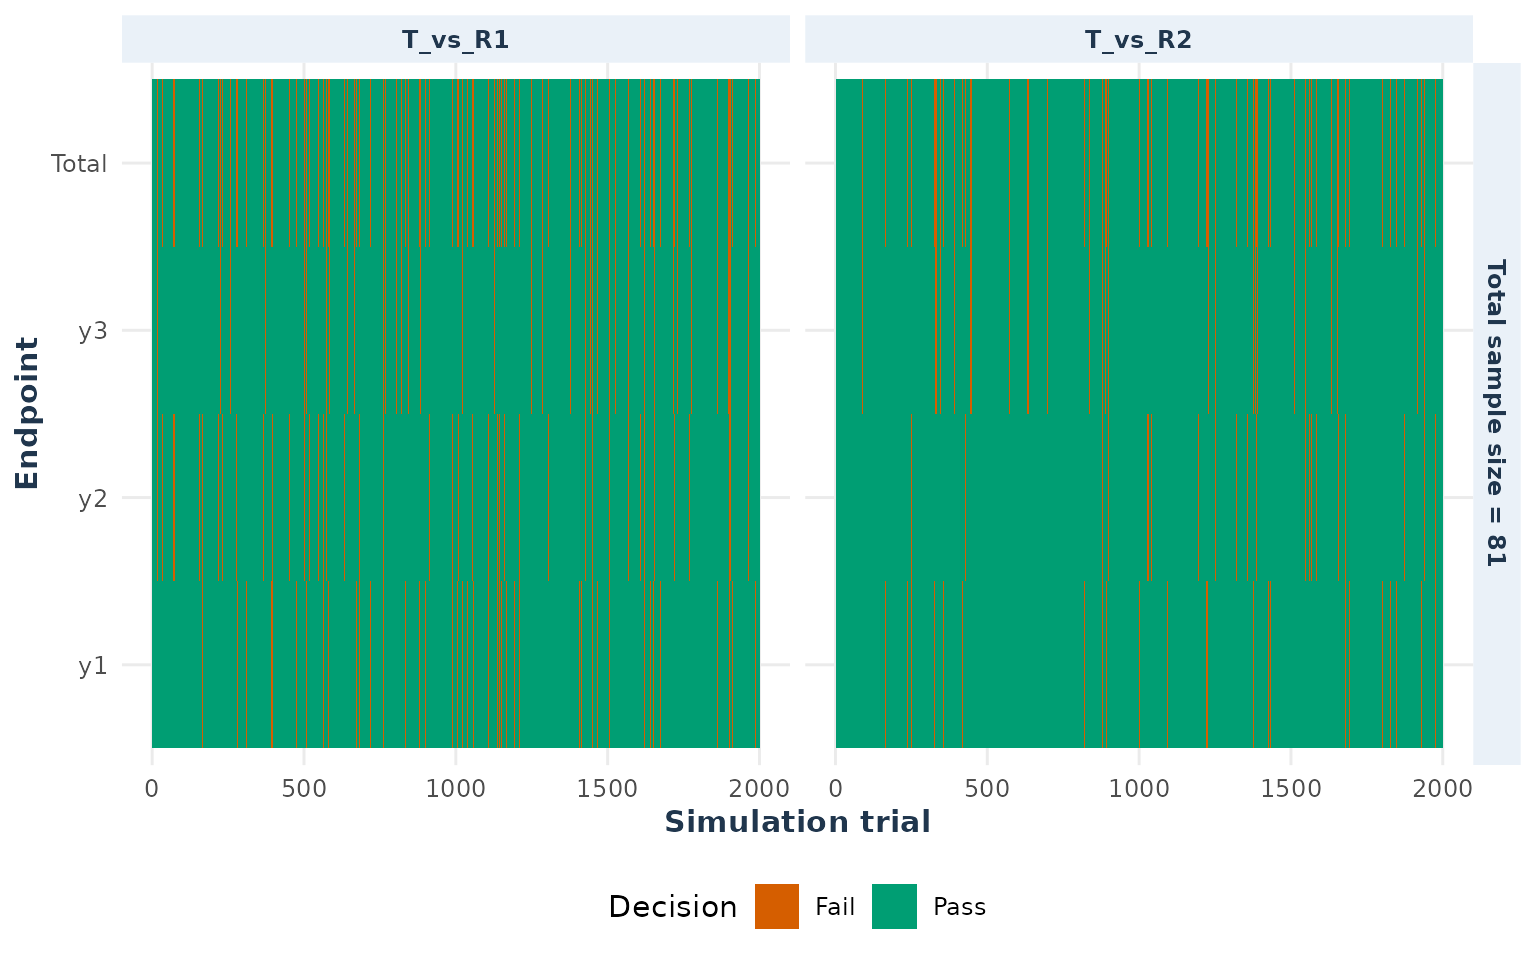
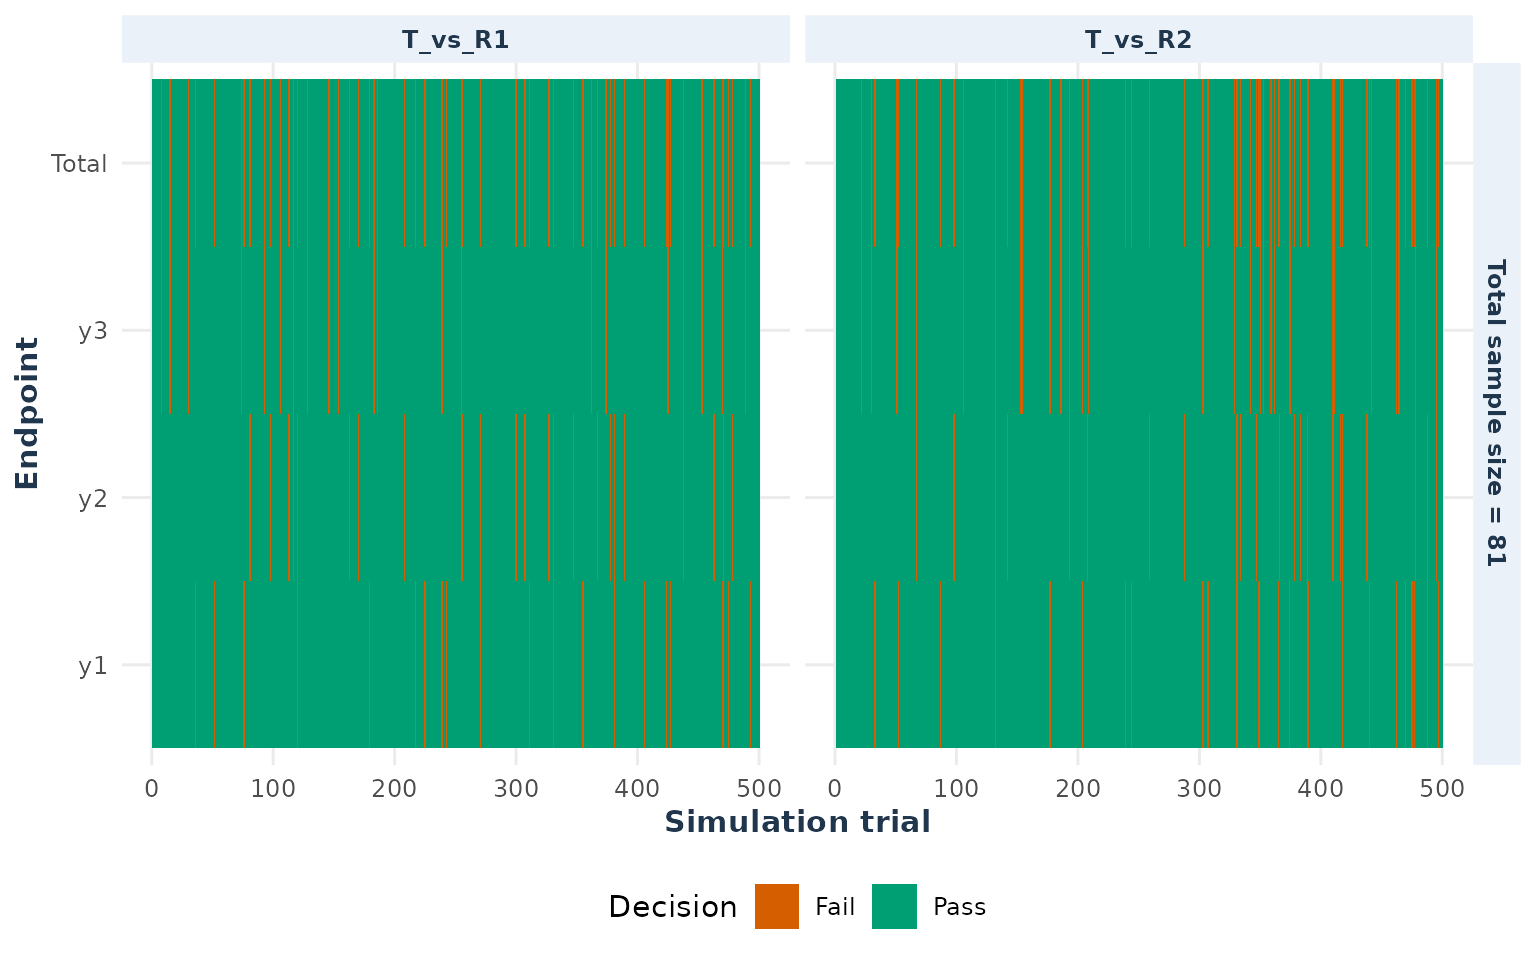
Deploying to gh-pages from @ smartdata-analysis-and-statistics/SimTOST@82be227285adf351aebbba95f6165a0c2ab09bb7 🚀

diff --git a/articles/continuous_parallel.html b/articles/continuous_parallel.html
@@ -310,13 +310,13 @@ parameters.</p>
 <span>                              sigma <span class="op">=</span> <span class="fl">0.3</span>, true.diff <span class="op">=</span> <span class="fu"><a href="https://rdrr.io/r/base/Log.html" class="external-link">log</a></span><span class="op">(</span><span class="fl">1.05</span><span class="op">)</span>,</span>
 <span>                              equi.tol <span class="op">=</span> <span class="fu"><a href="https://rdrr.io/r/base/Log.html" class="external-link">log</a></span><span class="op">(</span><span class="fl">1.25</span><span class="op">)</span>, design <span class="op">=</span> <span class="st">"parallel"</span>,</span>
 <span>                              alpha <span class="op">=</span> <span class="fl">0.05</span>, adjust <span class="op">=</span> <span class="st">"none"</span>, seed <span class="op">=</span> <span class="fl">1234</span>,</span>
-<span>                              nsim <span class="op">=</span> <span class="fl">10000</span><span class="op">)</span></span>
+<span>                              nsim <span class="op">=</span> <span class="fl">500</span><span class="op">)</span></span>
 <span><span class="va">ssMielke</span></span>
 <span><span class="co">#&gt; Mielke sample-size calculation</span></span>
-<span><span class="co">#&gt; Required sample size: 52 </span></span>
-<span><span class="co">#&gt; Achieved power: 0.8031</span></span>
+<span><span class="co">#&gt; Required sample size: 53 </span></span>
+<span><span class="co">#&gt; Achieved power: 0.812</span></span>
 <span><span class="va">ss_value</span> <span class="op">&lt;-</span> <span class="kw">if</span> <span class="op">(</span><span class="fu"><a href="https://rdrr.io/r/base/list.html" class="external-link">is.list</a></span><span class="op">(</span><span class="va">ssMielke</span><span class="op">)</span><span class="op">)</span> <span class="va">ssMielke</span><span class="op">$</span><span class="va">SS</span> <span class="kw">else</span> <span class="fu"><a href="https://rdrr.io/r/base/unname.html" class="external-link">unname</a></span><span class="op">(</span><span class="va">ssMielke</span><span class="op">[</span><span class="st">"SS"</span><span class="op">]</span><span class="op">)</span></span></code></pre></div>
-<p>For 80% power, 52 subjects per arm (104 in total) would be
+<p>For 80% power, 53 subjects per arm (106 in total) would be
 required.</p>
 </div>
 <div class="section level3">
@@ -343,7 +343,7 @@ correlation parameter <code>rho</code>.</p>
 <span>                 list_lequi.tol <span class="op">=</span> <span class="fu"><a href="https://rdrr.io/r/base/list.html" class="external-link">list</a></span><span class="op">(</span><span class="st">"R_vs_T"</span> <span class="op">=</span> <span class="va">lequi_lower</span><span class="op">)</span>,</span>
 <span>                 list_uequi.tol <span class="op">=</span> <span class="fu"><a href="https://rdrr.io/r/base/list.html" class="external-link">list</a></span><span class="op">(</span><span class="st">"R_vs_T"</span> <span class="op">=</span> <span class="va">lequi_upper</span><span class="op">)</span>,</span>
 <span>                 dtype <span class="op">=</span> <span class="st">"parallel"</span>, ctype <span class="op">=</span> <span class="st">"ROM"</span>, distribution <span class="op">=</span> <span class="st">"lnorm"</span>,</span>
-<span>                 adjust <span class="op">=</span> <span class="st">"none"</span>, ncores <span class="op">=</span> <span class="fl">1</span>, k <span class="op">=</span> <span class="fl">5</span>, nsim <span class="op">=</span> <span class="fl">10000</span>, seed <span class="op">=</span> <span class="fl">1234</span><span class="op">)</span></span>
+<span>                 adjust <span class="op">=</span> <span class="st">"none"</span>, ncores <span class="op">=</span> <span class="fl">1</span>, k <span class="op">=</span> <span class="fl">5</span>, nsim <span class="op">=</span> <span class="fl">500</span>, seed <span class="op">=</span> <span class="fl">1234</span><span class="op">)</span></span>
 <span><span class="va">ss</span></span>
 <span><span class="co">#&gt; Sample Size Calculation Results</span></span>
 <span><span class="co">#&gt; -------------------------------------------------------------</span></span>
@@ -355,9 +355,9 @@ correlation parameter <code>rho</code>.</p>
 <span><span class="co">#&gt;       (multiple co-primary endpoints, m =  5 )</span></span>
 <span><span class="co">#&gt; -------------------------------------------------------------</span></span>
 <span><span class="co">#&gt;                  Parameter       Value</span></span>
-<span><span class="co">#&gt;          Total Sample Size         106</span></span>
-<span><span class="co">#&gt;             Achieved Power        80.1</span></span>
-<span><span class="co">#&gt;  Power Confidence Interval 79.3 - 80.9</span></span>
+<span><span class="co">#&gt;          Total Sample Size         110</span></span>
+<span><span class="co">#&gt;             Achieved Power          80</span></span>
+<span><span class="co">#&gt;  Power Confidence Interval 76.2 - 83.4</span></span>
 <span><span class="co">#&gt; -------------------------------------------------------------</span></span></code></pre></div>
 <p>To verify the non-zero dependence assumption in this second scenario,
 retain a moderate number of simulated trials at a fixed sample size. The

diff --git a/articles/workflow.html b/articles/workflow.html
@@ -963,7 +963,7 @@ simulated outcomes.</p>
 <span>  list_y_comparator <span class="op">=</span> <span class="fu"><a href="https://rdrr.io/r/base/list.html" class="external-link">list</a></span><span class="op">(</span>T_vs_R1 <span class="op">=</span> <span class="va">endpoints</span>, T_vs_R2 <span class="op">=</span> <span class="va">endpoints</span><span class="op">)</span>,</span>
 <span>  list_lequi.tol <span class="op">=</span> <span class="va">lower</span>, list_uequi.tol <span class="op">=</span> <span class="va">upper</span>,</span>
 <span>  dtype <span class="op">=</span> <span class="st">"parallel"</span>, ctype <span class="op">=</span> <span class="st">"ROM"</span>, distribution <span class="op">=</span> <span class="st">"lnorm"</span>,</span>
-<span>  adjust <span class="op">=</span> <span class="st">"none"</span>, k <span class="op">=</span> <span class="fl">3</span>, ncores <span class="op">=</span> <span class="fl">1</span>, nsim <span class="op">=</span> <span class="fl">2000</span>, seed <span class="op">=</span> <span class="fl">2026</span>,</span>
+<span>  adjust <span class="op">=</span> <span class="st">"none"</span>, k <span class="op">=</span> <span class="fl">3</span>, ncores <span class="op">=</span> <span class="fl">1</span>, nsim <span class="op">=</span> <span class="fl">500</span>, seed <span class="op">=</span> <span class="fl">2026</span>,</span>
 <span>  keep_sim_data <span class="op">=</span> <span class="cn">TRUE</span></span>
 <span><span class="op">)</span></span></code></pre></div>
 <p>In this example, the final run uses more trials than the 500-trial
@@ -995,10 +995,10 @@ sample size.</p>
 <span><span class="co">#&gt;     - Endpoints Tested: y1, y2, y3 </span></span>
 <span><span class="co">#&gt;       (multiple co-primary endpoints, m =  3 )</span></span>
 <span><span class="co">#&gt; -------------------------------------------------------------</span></span>
-<span><span class="co">#&gt;                  Parameter     Value</span></span>
-<span><span class="co">#&gt;          Total Sample Size        81</span></span>
-<span><span class="co">#&gt;             Achieved Power      81.4</span></span>
-<span><span class="co">#&gt;  Power Confidence Interval 79.6 - 83</span></span>
+<span><span class="co">#&gt;                  Parameter       Value</span></span>
+<span><span class="co">#&gt;          Total Sample Size          81</span></span>
+<span><span class="co">#&gt;             Achieved Power        80.4</span></span>
+<span><span class="co">#&gt;  Power Confidence Interval 76.6 - 83.7</span></span>
 <span><span class="co">#&gt; -------------------------------------------------------------</span></span>
 <span><span class="fu"><a href="https://rdrr.io/r/base/summary.html" class="external-link">summary</a></span><span class="op">(</span><span class="va">ss</span><span class="op">)</span></span>
 <span><span class="co">#&gt; Sample Size Summary</span></span>
@@ -1010,7 +1010,7 @@ sample size.</p>
 <span><span class="co">#&gt; Hypotheses         : H0: ratio &lt;= L or &gt;= U; H1: L &lt; ratio &lt; U (tested on the log scale)</span></span>
 <span><span class="co">#&gt; Alpha              : 0.05 </span></span>
 <span><span class="co">#&gt; Target power       : 0.8000 </span></span>
-<span><span class="co">#&gt; Achieved power     : 0.8135 </span></span>
+<span><span class="co">#&gt; Achieved power     : 0.8040 </span></span>
 <span><span class="co">#&gt; </span></span>
 <span><span class="co">#&gt; Equivalence Margins:</span></span>
 <span><span class="co">#&gt;  Comparison Endpoint Lower Upper</span></span>
@@ -1026,7 +1026,7 @@ sample size.</p>
 <span><span class="co">#&gt;   27   27   27      81</span></span>
 <span><span class="fu"><a href="https://rdrr.io/r/stats/confint.html" class="external-link">confint</a></span><span class="op">(</span><span class="va">ss</span><span class="op">)</span></span>
 <span><span class="co">#&gt; Confidence Interval for Achieved Power (95%):</span></span>
-<span><span class="co">#&gt;  0.8135 [0.7956, 0.8302]</span></span>
+<span><span class="co">#&gt;  0.8040 [0.7659, 0.8373]</span></span>
 <span><span class="fu"><a href="https://rdrr.io/r/graphics/plot.default.html" class="external-link">plot</a></span><span class="op">(</span><span class="va">ss</span><span class="op">)</span></span></code></pre></div>
 <p><img src="workflow_files/figure-html/workflow-result-1.png" class="r-plt" alt="" width="100%" style="display: block; margin: auto;"></p>
 <p>The result is acceptable only if the model checks passed, the Monte

diff --git a/articles/continuous_crossover.html b/articles/continuous_crossover.html
@@ -163,7 +163,7 @@ function.</p>
 <span>                 list_lequi.tol <span class="op">=</span> <span class="fu"><a href="https://rdrr.io/r/base/list.html" class="external-link">list</a></span><span class="op">(</span><span class="st">"T_vs_R"</span> <span class="op">=</span> <span class="va">lequi_lower</span><span class="op">)</span>,</span>
 <span>                 list_uequi.tol <span class="op">=</span> <span class="fu"><a href="https://rdrr.io/r/base/list.html" class="external-link">list</a></span><span class="op">(</span><span class="st">"T_vs_R"</span> <span class="op">=</span> <span class="va">lequi_upper</span><span class="op">)</span>,</span>
 <span>                 dtype <span class="op">=</span> <span class="st">"2x2"</span>, ctype <span class="op">=</span> <span class="st">"DOM"</span>, distribution <span class="op">=</span> <span class="st">"norm"</span>,</span>
-<span>                 adjust <span class="op">=</span> <span class="st">"none"</span>, nsim <span class="op">=</span> <span class="fl">5000</span>, seed <span class="op">=</span> <span class="fl">1234</span><span class="op">)</span><span class="op">)</span></span>
+<span>                 adjust <span class="op">=</span> <span class="st">"none"</span>, nsim <span class="op">=</span> <span class="fl">500</span>, seed <span class="op">=</span> <span class="fl">1234</span><span class="op">)</span><span class="op">)</span></span>
 <span><span class="co">#&gt; Sample Size Calculation Results</span></span>
 <span><span class="co">#&gt; -------------------------------------------------------------</span></span>
 <span><span class="co">#&gt; Study Design: 2x2 trial targeting 80% power with a 5% type-I error.</span></span>
@@ -174,11 +174,11 @@ function.</p>
 <span><span class="co">#&gt;       (multiple co-primary endpoints, m =  2 )</span></span>
 <span><span class="co">#&gt; -------------------------------------------------------------</span></span>
 <span><span class="co">#&gt;                  Parameter       Value</span></span>
-<span><span class="co">#&gt;          Total Sample Size          37</span></span>
-<span><span class="co">#&gt;             Achieved Power        80.2</span></span>
-<span><span class="co">#&gt;  Power Confidence Interval 79.1 - 81.3</span></span>
+<span><span class="co">#&gt;          Total Sample Size          39</span></span>
+<span><span class="co">#&gt;             Achieved Power        83.2</span></span>
+<span><span class="co">#&gt;  Power Confidence Interval 79.6 - 86.3</span></span>
 <span><span class="co">#&gt; -------------------------------------------------------------</span></span></code></pre></div>
-<p>The total sample size required is 37 subjects, which corresponds to
+<p>The total sample size required is 39 subjects, which corresponds to
 the estimate obtained using the PASS software (n=37).</p>
 <div class="section level3">
 <h3 id="estimating-power-at-a-fixed-sample-size">Estimating power at a fixed sample size<a class="anchor" aria-label="anchor" href="#estimating-power-at-a-fixed-sample-size"></a>

diff --git a/articles/count.html b/articles/count.html
@@ -222,20 +222,20 @@ with approximated power 0.80012.</p>
 <span>  exposure <span class="op">=</span> <span class="fl">0.7</span>,</span>
 <span>  dtype <span class="op">=</span> <span class="st">"parallel"</span>,</span>
 <span>  alpha <span class="op">=</span> <span class="fl">0.025</span>,</span>
-<span>  nsim <span class="op">=</span> <span class="fl">5000</span>,</span>
+<span>  nsim <span class="op">=</span> <span class="fl">500</span>,</span>
 <span>  seed <span class="op">=</span> <span class="fl">2024</span></span>
 <span><span class="op">)</span></span>
 <span><span class="va">zhu_benchmark</span></span>
 <span><span class="co">#&gt; Fixed-sample-size power</span></span>
 <span><span class="co">#&gt; Distribution: pois </span></span>
 <span><span class="co">#&gt; Sample size: 2705 </span></span>
-<span><span class="co">#&gt; Power: 0.7936 [0.7821, 0.8047]</span></span>
+<span><span class="co">#&gt; Power: 0.7880 [0.7490, 0.8225]</span></span>
 <span><span class="fu"><a href="https://rdrr.io/r/base/data.frame.html" class="external-link">data.frame</a></span><span class="op">(</span>reference_power <span class="op">=</span> <span class="fl">0.80012</span>,</span>
 <span>           simulated_power <span class="op">=</span> <span class="va">zhu_benchmark</span><span class="op">$</span><span class="va">power</span>,</span>
 <span>           simulated_lower <span class="op">=</span> <span class="va">zhu_benchmark</span><span class="op">$</span><span class="va">power_LCI</span>,</span>
 <span>           simulated_upper <span class="op">=</span> <span class="va">zhu_benchmark</span><span class="op">$</span><span class="va">power_UCI</span><span class="op">)</span></span>
 <span><span class="co">#&gt;   reference_power simulated_power simulated_lower simulated_upper</span></span>
-<span><span class="co">#&gt; 1         0.80012          0.7936       0.7820566       0.8046886</span></span></code></pre></div>
+<span><span class="co">#&gt; 1         0.80012           0.788       0.7489947       0.8224918</span></span></code></pre></div>
 <p>The simulation need not reproduce the published value exactly. The
 published result is a large-sample approximation, whereas
 <code><a href="../reference/simPower.html">simPower()</a></code> simulates discrete event totals and reports a
